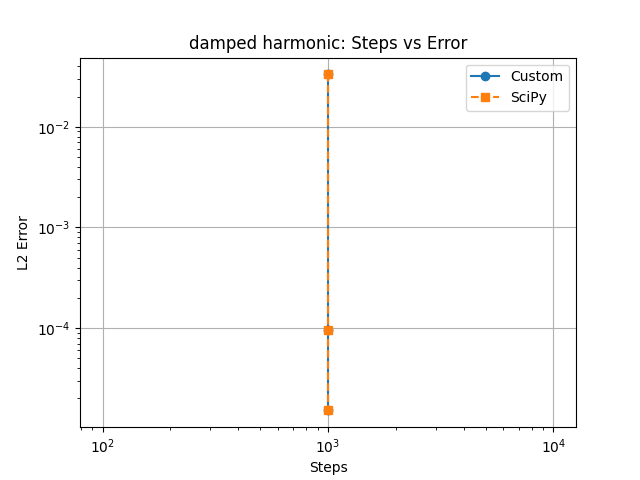
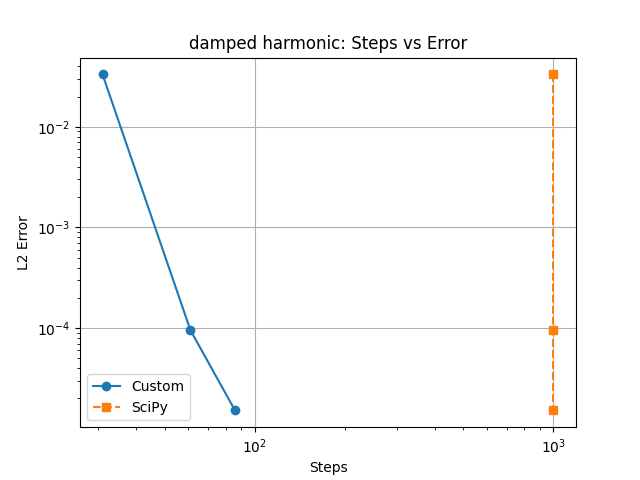
final polishing

diff --git a/benchmarking/testing.py b/benchmarking/testing.py
@@ -4,12 +4,9 @@ import numpy as np
 import pandas as pd
 import matplotlib.pyplot as plt
 from time import perf_counter_ns
-import sys
-path = r'/Users/harikesh/Documents/Numerical Simulations/1-DOF_Project'
-sys.path.append(path)
 from scipy.integrate import solve_ivp
 from core import rk45
-from systems import problems_njit, problems_py
+from benchmarking.systems import problems_njit, problems_py
 
 
 os.makedirs("./benchmarking/results", exist_ok=True)
@@ -29,24 +26,26 @@ t_span = [0.0, 10.0]
 t_eval = np.linspace(t_span[0], t_span[1], 1000)
 
 results = []
+dummy_params = np.zeros(1, dtype=np.float64)
 
 # -------------------------------
-# Helper
+# Helper to get names of the problems
 # -------------------------------
 def safe_name(name: str) -> str:
     return name.replace(" ", "_")
 
 
-# ===============================
-# MAIN LOOP
-# ===============================
+# ===============================================================================
+# MAIN LOOP (running the problems sequentially for custom solver and Scipy)
+# ============================================================================
 for f_py, f_njit, y0_vec in zip(problems_py, problems_njit, Y0):
     problem_name = " ".join(f_py.__name__.split('_')[:-2])
     safe_problem = safe_name(problem_name)
 
     print(f"\nRunning: {problem_name}")
 
-    rk45(f=f_njit, y0=y0_vec, t_span=t_span, t_eval=t_eval)
+    ##NOTE: This was run twice for every custom solver iteration because, njit first compiles the code and then uses the machine code execution, the first iteration has some compilation overhead, we don't care about that (technically I should, but it is what it is)
+    rk45(f=f_njit, y0=y0_vec, t_span=t_span, t_eval=t_eval, sys_params=dummy_params)
 
     for rtol in rtol_list:
 
@@ -56,7 +55,8 @@ for f_py, f_njit, y0_vec in zip(problems_py, problems_njit, Y0):
             y0=y0_vec,
             t_span=t_span,
             t_eval=t_eval,
-            rtol=rtol
+            rtol=rtol,
+            sys_params=dummy_params
         )
         t2 = perf_counter_ns()
 
@@ -72,7 +72,7 @@ for f_py, f_njit, y0_vec in zip(problems_py, problems_njit, Y0):
         )
         t4 = perf_counter_ns()
 
-        y_custom = sol_custom["y"]
+        y_custom = sol_custom.y
         y_scipy = sol_scipy.y.T
 
         diff = y_custom - y_scipy
@@ -83,7 +83,7 @@ for f_py, f_njit, y0_vec in zip(problems_py, problems_njit, Y0):
             "rtol": rtol,
             "custom_time_ns": int(t2 - t1),
             "scipy_time_ns": int(t4 - t3),
-            "custom_steps": int(len(sol_custom["t"])),
+            "custom_steps": int(sol_custom.n_steps),
             "scipy_steps": int(len(sol_scipy.t)),
             "l2_error": float(np.linalg.norm(diff)),
             "max_error": float(np.max(np.abs(diff)))
@@ -93,14 +93,14 @@ with open('./benchmarking/results/benchmark_results.json','w') as f:
     json.dump(results,f)
 
 # ===============================
-# DATAFRAME
+# DATAFRAME(storing the results in .csv format)
 # ===============================
 df = pd.DataFrame(results)
 df["speedup"] = df["scipy_time_ns"] / df["custom_time_ns"]
 
 
 # ===============================
-# PLOTTING
+# PLOTTING(report plots)
 # ===============================
 def plot_error_vs_time(df, pname):
     subset = df[df["problem"] == pname]
@@ -186,10 +186,10 @@ for f_py, f_njit, y0_vec in zip(problems_py, problems_njit, Y0):
 
     pname = " ".join(f_py.__name__.split('_')[:-2])
 
-    sol_custom = rk45(f_njit, y0_vec, t_span, t_eval=t_eval)
+    sol_custom = rk45(f_njit, y0_vec, t_span, t_eval=t_eval, sys_params=dummy_params)
     sol_scipy = solve_ivp(f_py, t_span, y0_vec, t_eval=t_eval)
 
-    plot_trajectory(pname, t_eval, sol_custom["y"], sol_scipy.y.T)
+    plot_trajectory(pname, t_eval, sol_custom.y, sol_scipy.y.T)
 
 
 # ===============================

diff --git a/benchmarking/systems.py b/benchmarking/systems.py
@@ -56,7 +56,7 @@ def van_der_pol_system_py(t, state):
 
 # numba compiled for custom solver
 @njit
-def exponential_system(t, state):
+def exponential_system(t, state, _params):
     x = state[0]
     out = np.empty(1)
     out[0] = LAMBDA * x
@@ -64,7 +64,7 @@ def exponential_system(t, state):
 
 
 @njit
-def harmonic_oscillator(t, state):
+def harmonic_oscillator(t, state, _params):
     x = state[0]
     xdot = state[1]
 
@@ -75,7 +75,7 @@ def harmonic_oscillator(t, state):
 
 
 @njit
-def damped_harmonic_oscillator(t, state):
+def damped_harmonic_oscillator(t, state, _params):
     x = state[0]
     xdot = state[1]
 
@@ -86,7 +86,7 @@ def damped_harmonic_oscillator(t, state):
 
 
 @njit
-def forced_oscillator(t, state):
+def forced_oscillator(t, state, _params):
     x = state[0]
     xdot = state[1]
 
@@ -97,7 +97,7 @@ def forced_oscillator(t, state):
 
 
 @njit
-def logistic_system(t, state):
+def logistic_system(t, state, _params):
     x = state[0]
 
     out = np.empty(1)
@@ -106,7 +106,7 @@ def logistic_system(t, state):
 
 
 @njit
-def van_der_pol_system(t, state):
+def van_der_pol_system(t, state, _params):
     x = state[0]
     xdot = state[1]
 

diff --git a/benchmarking/README.md b/benchmarking/README.md
@@ -1,0 +1,36 @@
+## Benchmarking
+
+This folder contains quick benchmarks and checks comparing the custom RK45 solver (`core/solver.py`) against SciPy’s `solve_ivp(method="RK45")`.
+
+### Scripts
+
+- `quick_test.py`
+  - Small single-problem comparison (forced damped oscillator).
+  - Prints runtime + error metrics and plots trajectories.
+
+- `testing.py`
+  - Runs a small suite of ODE problems from `systems.py` across multiple `rtol` values.
+  - Produces a JSON/CSV-style summary plus a markdown report with plots under `benchmarking/results/`.
+
+- `systems.py`
+  - Defines the benchmark ODE right-hand-sides in two forms:
+    - pure-Python versions for SciPy
+    - Numba-compiled versions for the custom solver (matching the required solver signature)
+
+### Outputs
+
+Running `testing.py` writes:
+
+- `benchmarking/results/benchmark_results.json`
+- `benchmarking/results/report.md`
+- `benchmarking/results/figures/*.png`
+
+These are generated artifacts and are typically not committed.
+
+### Run
+
+From the repo root (after installing requirements):
+
+- `python3 benchmarking/quick_test.py`
+- `python3 benchmarking/testing.py`
+

diff --git a/benchmarking/results/report.md b/benchmarking/results/report.md
@@ -1,9 +1,9 @@
-# <div align = "center">Solver Benchmark Report</div>
+# Solver Benchmark Report
 
 ## exponential
 
 - Best L2 error: 0.00e+00
-- Speedup: 5.12x
+- Speedup: 4.23x
 
 ![Error vs Time](figures/exponential_error_vs_time.png)
 
@@ -16,7 +16,7 @@
 ## harmonic
 
 - Best L2 error: 1.92e-05
-- Speedup: 17.51x
+- Speedup: 16.85x
 
 ![Error vs Time](figures/harmonic_error_vs_time.png)
 
@@ -29,7 +29,7 @@
 ## damped harmonic
 
 - Best L2 error: 1.52e-05
-- Speedup: 17.62x
+- Speedup: 16.58x
 
 ![Error vs Time](figures/damped_harmonic_error_vs_time.png)
 
@@ -42,7 +42,7 @@
 ## forced
 
 - Best L2 error: 5.65e-05
-- Speedup: 18.71x
+- Speedup: 17.15x
 
 ![Error vs Time](figures/forced_error_vs_time.png)
 
@@ -55,7 +55,7 @@
 ## logistic
 
 - Best L2 error: 3.13e-08
-- Speedup: 2.04x
+- Speedup: 2.12x
 
 ![Error vs Time](figures/logistic_error_vs_time.png)
 
@@ -68,7 +68,7 @@
 ## van der pol
 
 - Best L2 error: 1.42e-04
-- Speedup: 15.97x
+- Speedup: 17.33x
 
 ![Error vs Time](figures/van_der_pol_error_vs_time.png)
 
